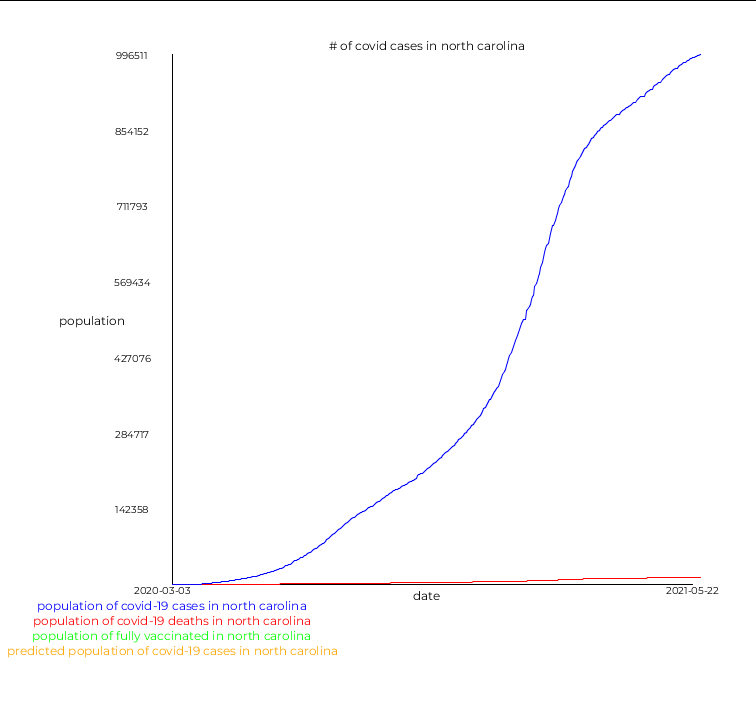
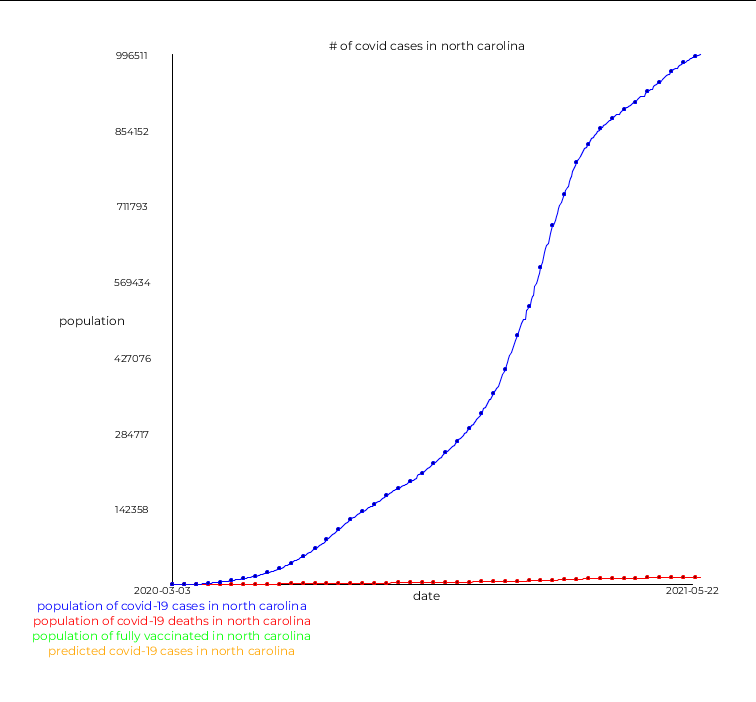
fixed some of the graph displaying

diff --git a/CapstoneCOVIDVaccineTrackerProject/src/StatesGraphics.java b/CapstoneCOVIDVaccineTrackerProject/src/StatesGraphics.java
@@ -334,7 +334,7 @@ public class StatesGraphics{
 		p.save("graphs/"+stateName+".png");
 		try {
 			BufferedImage source = ImageIO.read(new File("graphs/"+stateName+".png")) ;
-			BufferedImage croppedImage = source.getSubimage((int) (7*(p.width/11)-(0.3*graphWidth)), (int) (p.height/20-(0.1*graphHeight)), (int)(1.4*graphWidth), (int)(1.3*graphHeight));
+			BufferedImage croppedImage = source.getSubimage((int) (7*(p.width/11)-(0.4*graphWidth)), (int) (p.height/20-(0.1*graphHeight)), (int)(1.5*graphWidth), (int)(1.3*graphHeight));
 			ImageIO.write(croppedImage, "png", new File("graphs/"+stateName+".png"));
 		} catch (IOException e1) {
 			// TODO Auto-generated catch block
@@ -382,7 +382,7 @@ public class StatesGraphics{
 
 		} else {
 			infoAvailable = false;
-			p.text("there is no numerical data available for " + name, (float)x, (float)(y + 30));
+			p.text("there is no numerical vaccination data available for " + name, (float)x, (float)(y + 30));
 		}
 		p.textAlign(p.CENTER);
 		p.text("all data updated as of " + covidDates.get(covidDates.size()-1), (float)(p.width/4*3), (float)(p.height  / 4*3));

diff --git a/CapstoneCOVIDVaccineTrackerProject/src/State.java b/CapstoneCOVIDVaccineTrackerProject/src/State.java
@@ -103,9 +103,9 @@ public class State extends Frame{
 		
 		if (screenHeight < screenWidth) {
 			if (mapHeight > screenHeight/2) {
-				map.resize(0, (screenHeight/2));
+				map.resize(0, (screenHeight/2-screenWidth/50));
 			}
-			if (mapWidth > screenWidth/2) {
+			else if (mapWidth > screenWidth/2) {
 				map.resize(screenWidth/2-screenWidth/25, 0);
 			} 
 			
@@ -117,7 +117,7 @@ public class State extends Frame{
 		surface.image(map, screenWidth/100, screenHeight/100);
 		
 		infoGraph = surface.loadImage("graphs/" + name + ".png");
-		surface.image(infoGraph, (float)(7*(screenWidth/11)-(0.3*graph.getGraphWidth())), (float)(screenHeight/20-(0.1*graph.getGraphHeight())));
+		surface.image(infoGraph, (float)(7*(screenWidth/11)-(0.4*graph.getGraphWidth())), (float)(screenHeight/20-(0.1*graph.getGraphHeight())));
 
 		drawDropDownButton(surface, screenWidth);
 		
